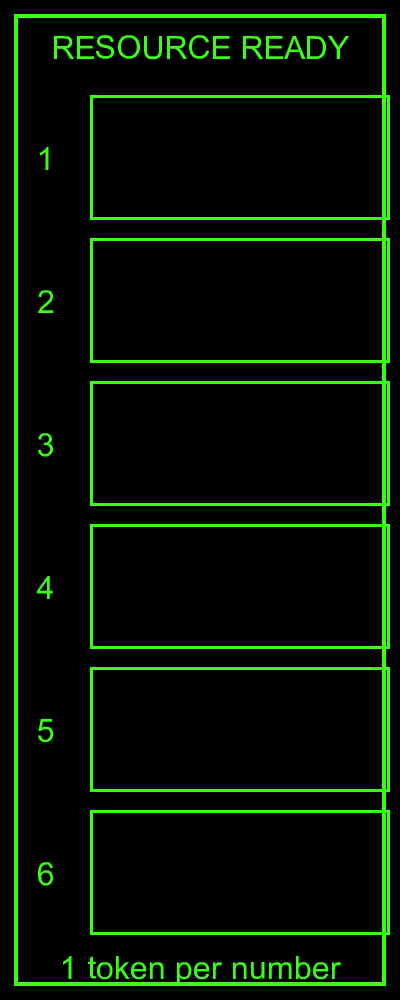
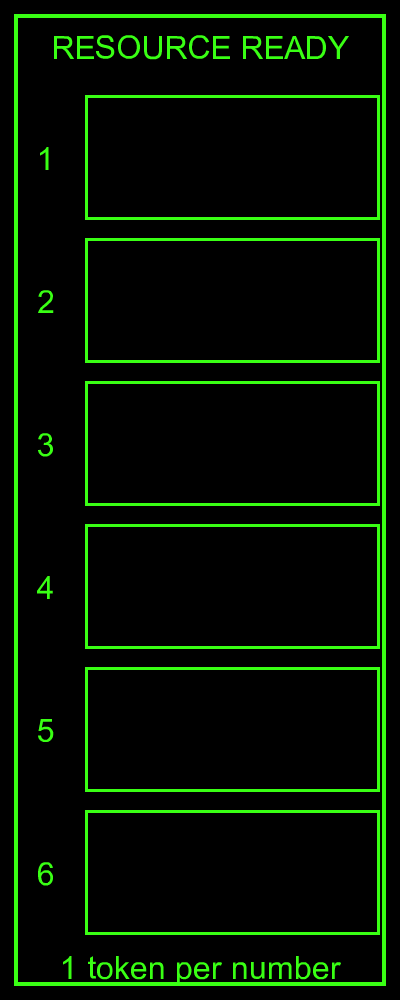
Resource Ready Board rev4: fix box clipping through right border
Amp-Thread-ID: https://ampcode.com/threads/T-01a0e6e4-5de2-768c-a53b-3dffdccfc20c

Changed region(s): [[0.93, 0.093, 0.99, 0.93], [0.21, 0.093, 0.24, 0.93]]

diff --git a/tts/generate-resource-ready-board.js b/tts/generate-resource-ready-board.js
@@ -91,12 +91,12 @@ function tintNeon(layer, w, h) {
     // Number 1 at the TOP (texture top = board north with rotY:180).
     // After setup, each box holds one resource token of the type that
     // number currently produces. Number label sits LEFT of its box.
-    const BOX_W = 300;
+    const BOX_W = 295;
     const BOX_H = 125;
     const COUNT = 6;
     const GAP = 18;
     const top = 95;                        // below title
-    const boxX1 = 90, boxX2 = boxX1 + BOX_W - 1;
+    const boxX1 = 85, boxX2 = boxX1 + BOX_W - 1;
     const colH = COUNT * BOX_H + (COUNT - 1) * GAP;   // 840
     if (top + colH + 45 > H - margin) throw new Error("boxes overflow canvas");
     const labelLayer = new Jimp({ width: W, height: H, color: 0x00000000 });
